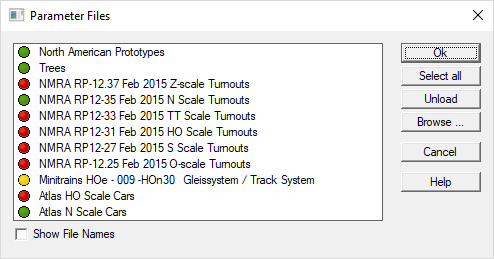
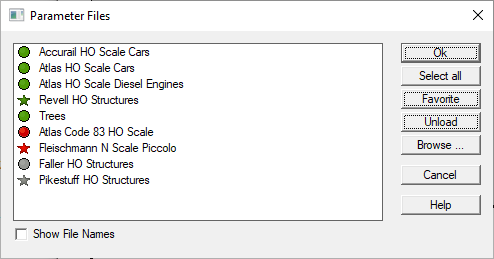
Favorite parameters are kept between runs Updated help for new parameter features

diff --git a/app/bin/paramfilelist.c b/app/bin/paramfilelist.c
@@ -149,6 +149,7 @@ void LoadParamFileList(void)
     BOOL_T updated = FALSE;
 	long *favoriteList = NULL;
 	long favorites;
+	int nextFavorite = 0;
 
     updated = UpdateParamFiles();
 
@@ -173,7 +174,7 @@ void LoadParamFileList(void)
         const char *fileName;
         const char * contents;
         enum paramFileState structState = PARAMFILE_UNLOADED;
-		int nextFavorite = 0;
+
 
         sprintf(message, "File%d", fileNo);
         contents = wPrefGetString("Parameter File Names", message);
@@ -195,7 +196,9 @@ void LoadParamFileList(void)
         paramFileInfo(curParamFileIndex).contents = curContents;
 		if (fileNo == favoriteList[nextFavorite]) {
 			paramFileInfo(curParamFileIndex).favorite = TRUE;
-			nextFavorite++;
+			if (nextFavorite < favorites - 1) {
+				nextFavorite++;
+			}
 		}
 		
     }
@@ -222,7 +225,7 @@ void SaveParamFileList(void)
 
     for (fileInx = 0, fileNo = 1, favorites = 0; fileInx < paramFileInfo_da.cnt;
             fileInx++, fileNo++) {
-        if (paramFileInfo(fileInx).valid && !paramFileInfo(fileInx).deleted) {
+        if (paramFileInfo(fileInx).valid && (!paramFileInfo(fileInx).deleted || paramFileInfo(fileInx).favorite)) {
             sprintf(message, "File%d", fileNo);
             contents = paramFileInfo(fileInx).contents;
             for (cp = contents; *cp; cp++) {
